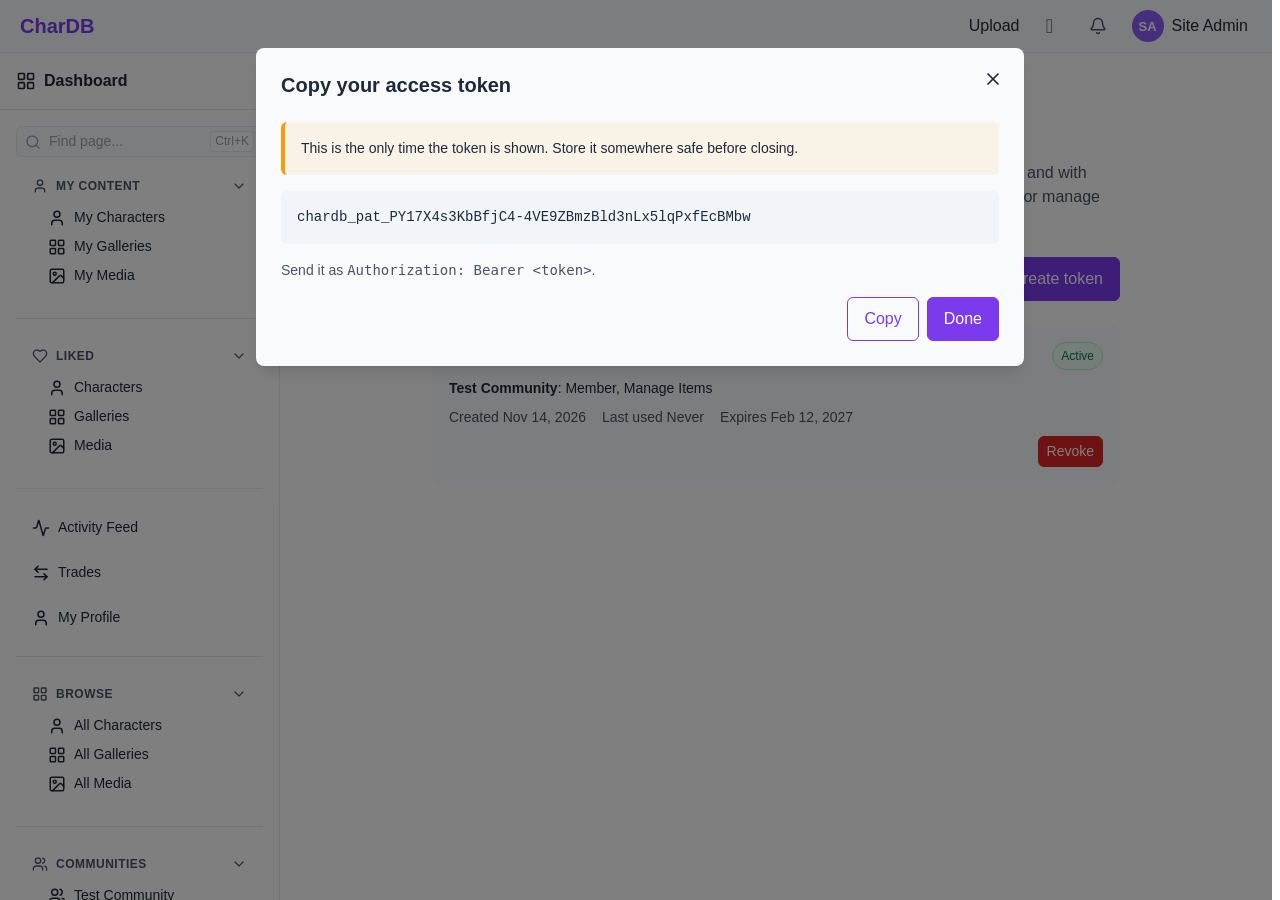
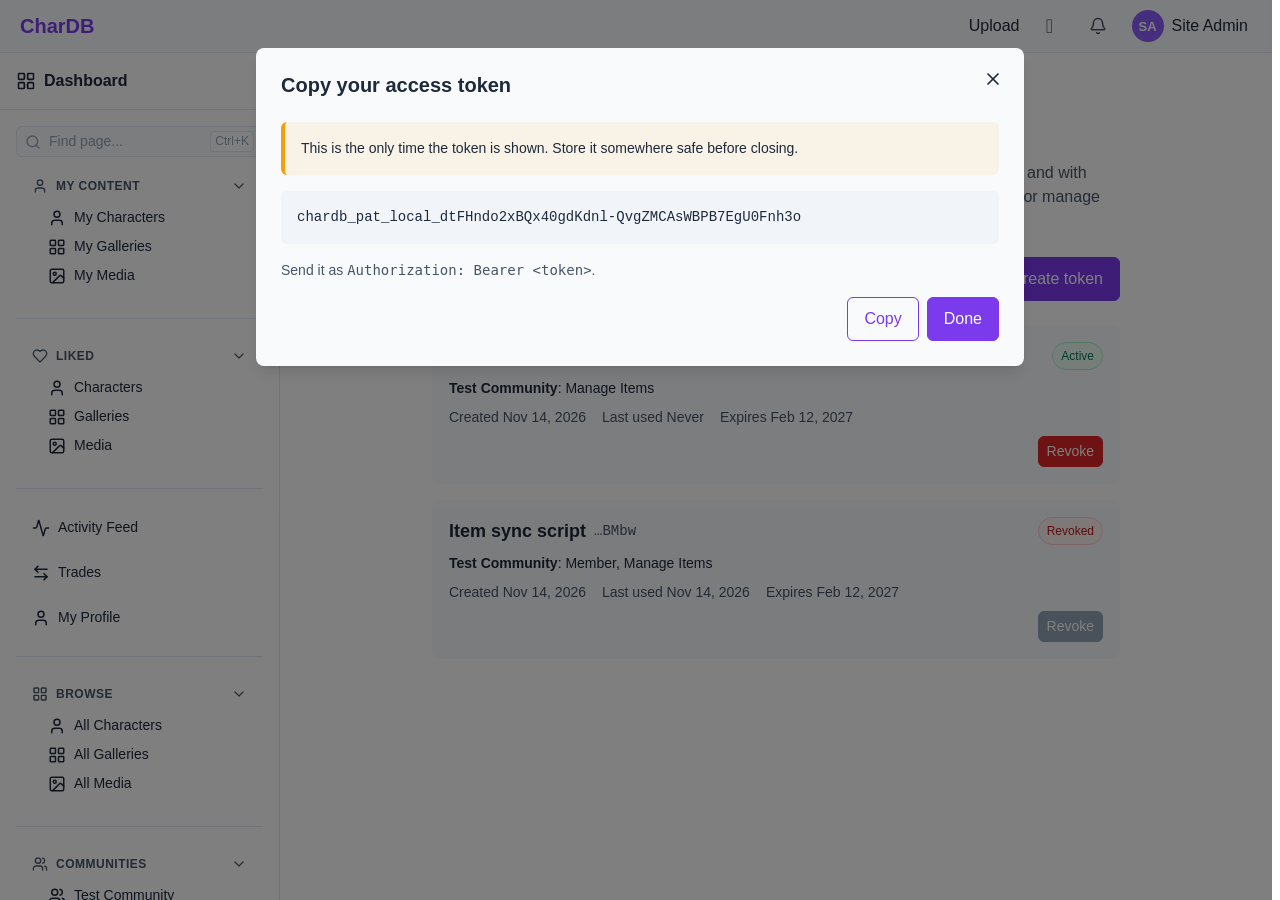
docs: access tokens name their environment

diff --git a/docs/docs/access-tokens.html b/docs/docs/access-tokens.html
@@ -286,28 +286,37 @@
             only a hash of it, so nobody can show it again later, admins
             included. Lose it and the fix is a new token.
           </p>
+          <p>
+            Every token names the environment it was made in:
+            <code>chardb_pat_prod_…</code> on the live site,
+            <code>chardb_pat_dev_…</code> on the dev stack and
+            <code>chardb_pat_local_…</code> on a laptop. A token found in a log
+            or a paste says at a glance whether it opens production.
+          </p>
         </div>
         <div class="screenshot">
           <img
             src="access-tokens-secret.png"
-            alt="The copy-your-token dialog showing a chardb_pat_ token with Copy and Done buttons."
+            alt="The copy-your-token dialog showing a chardb_pat_local_ token with Copy and Done buttons."
           />
           <div class="screenshot-caption">
-            The only view of the secret. The list shows its last four characters
-            afterwards, to tell tokens apart.
+            The only view of the secret, here from a local server. The list
+            shows its last four characters afterwards, to tell tokens apart.
           </div>
         </div>
         <div class="step-content" style="margin-top: 1.5rem">
           <p>The script sends it the same way the site sends a session:</p>
-          <div class="example">
-            curl https://api.chardb.cc/graphql \ -H "Authorization: Bearer
-            chardb_pat_…" \ -H "Content-Type: application/json" \ -d
-            '{"query":"{ me { username } }"}'
-          </div>
+          <pre class="example">
+curl https://api.chardb.cc/graphql \
+  -H "Authorization: Bearer chardb_pat_prod_…" \
+  -H "Content-Type: application/json" \
+  -d '{"query":"{ me { username } }"}'</pre
+          >
           <p>
             A token that has expired or been revoked gets an
             <code>UNAUTHENTICATED</code> error on every request, rather than
-            being treated as signed out.
+            being treated as signed out. One sent to the wrong environment is
+            told so: <em>This access token belongs to another environment</em>.
           </p>
         </div>
       </div>

diff --git a/apps/backend/CHANGELOG.md b/apps/backend/CHANGELOG.md
@@ -9,7 +9,7 @@ and this project adheres to [Semantic Versioning](https://semver.org/spec/v2.0.0
 
 ### Added
 
-- **Personal access tokens**: site admins mint `chardb_pat_` bearer tokens scoped to chosen communities and permissions. Tokens never pass site-admin, signed-in, self or owner gates unless a handler is marked `@AllowAccessToken()`.
+- **Personal access tokens**: site admins mint `chardb_pat_<env>_` bearer tokens scoped to chosen communities and permissions. Tokens never pass site-admin, signed-in, self or owner gates unless a handler is marked `@AllowAccessToken()`.
 
 ### Changed
 
